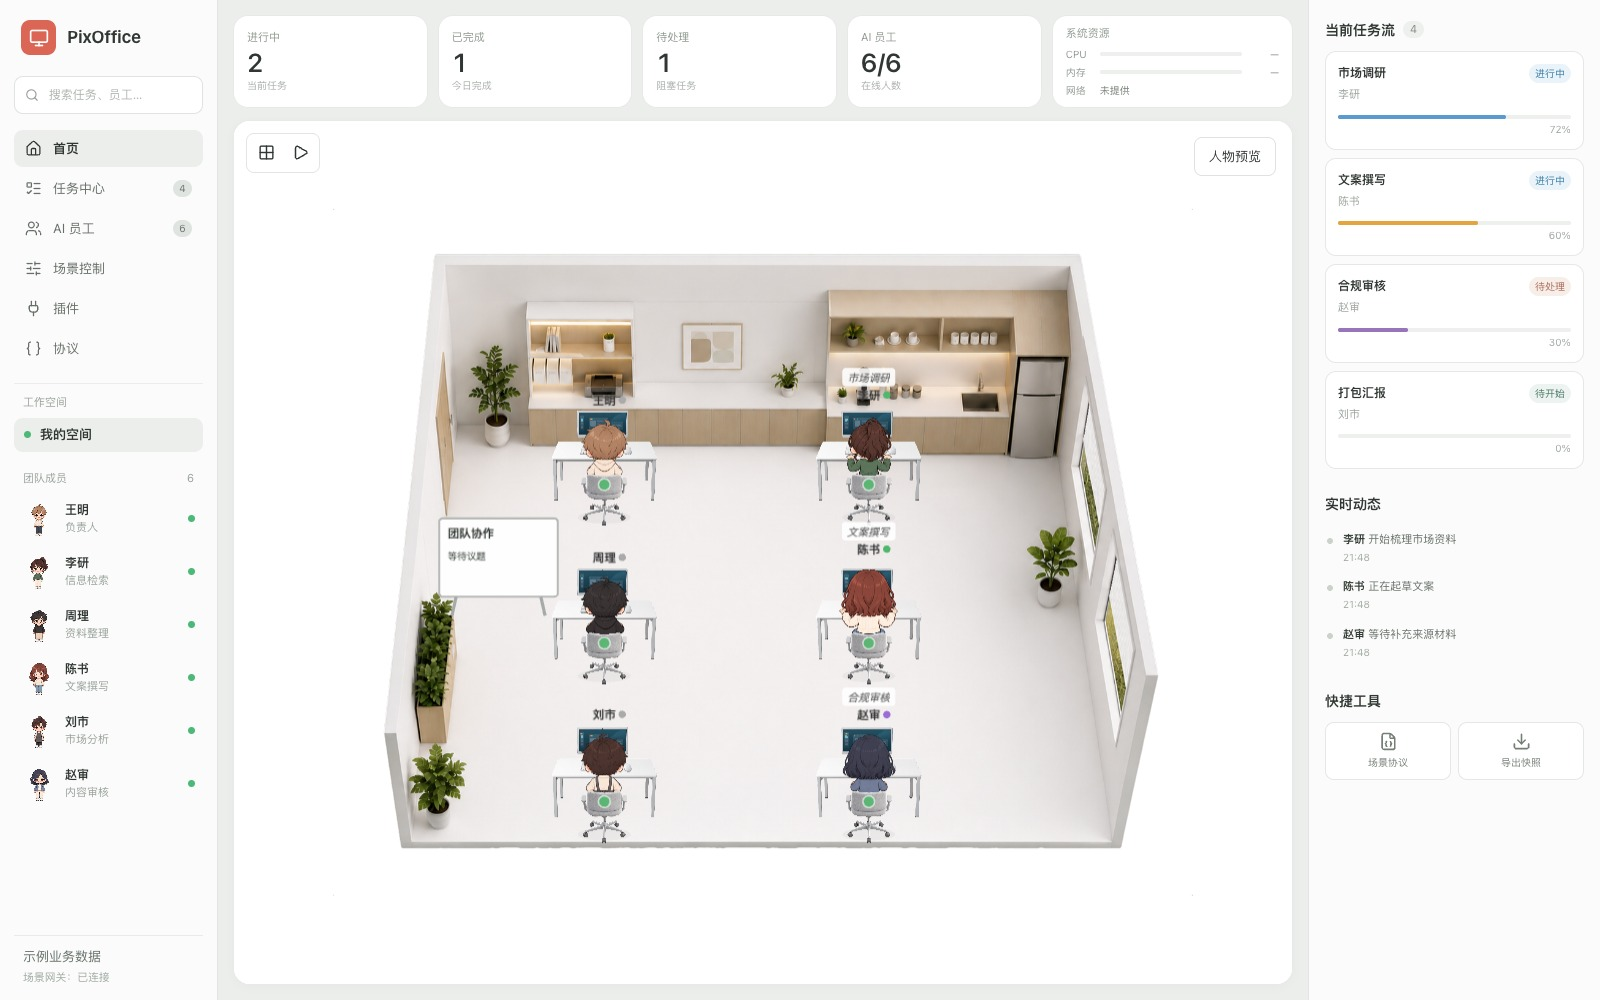
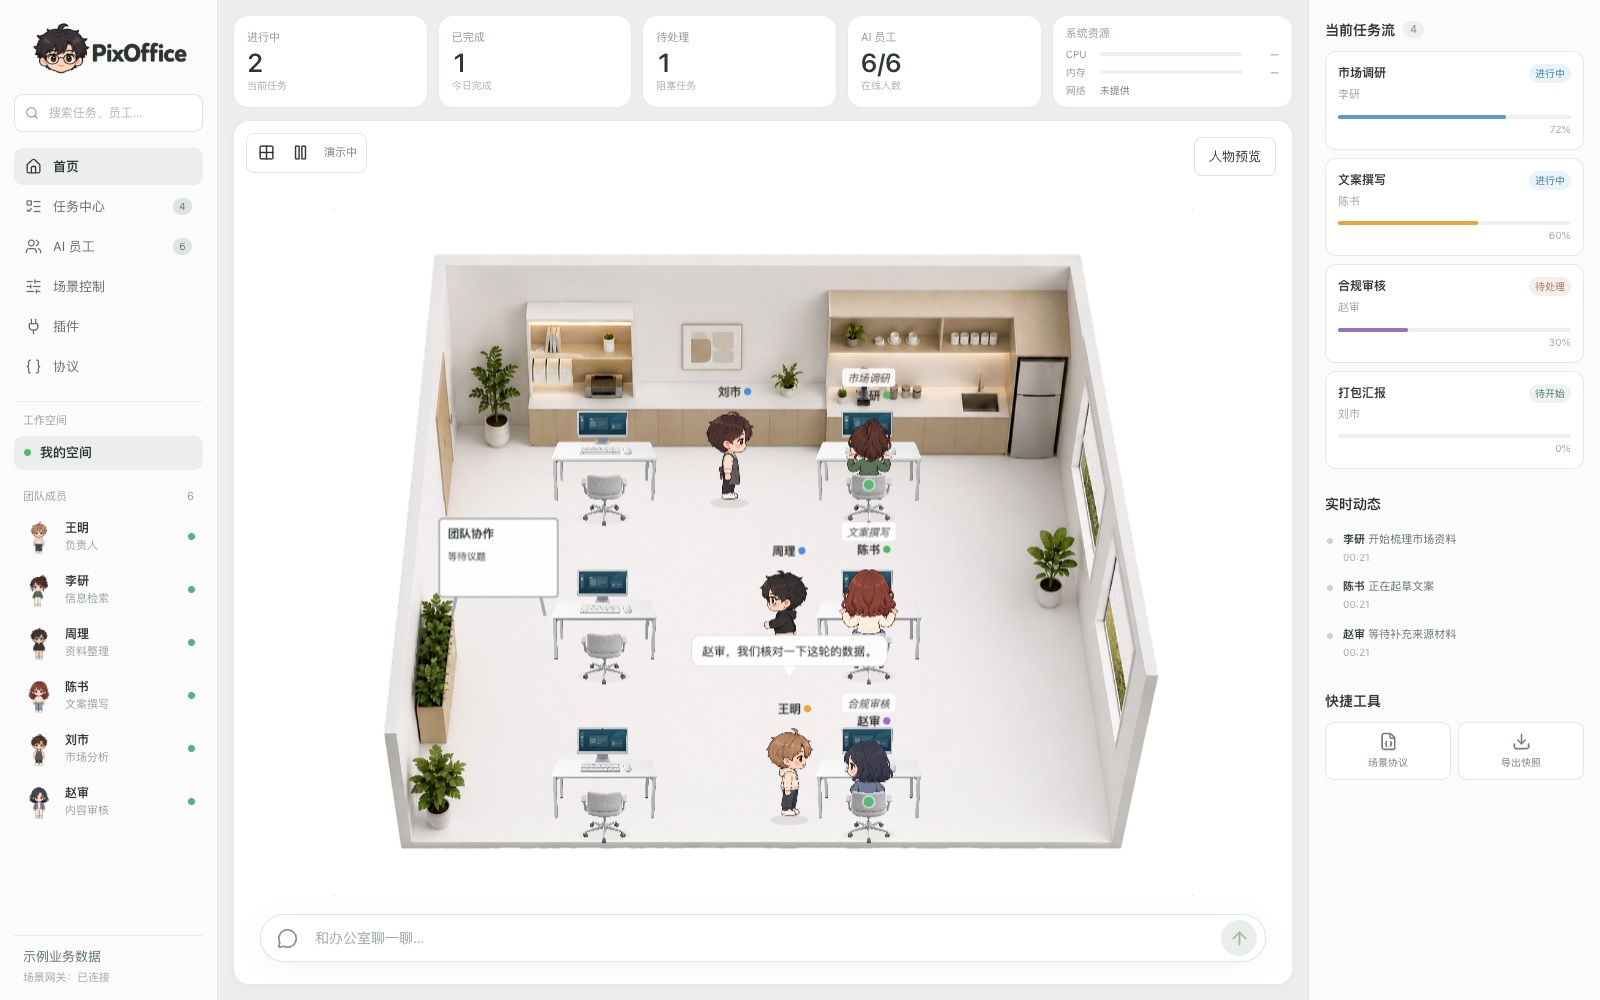
[update] README

diff --git a/README.md b/README.md
@@ -2,7 +2,9 @@
 
 [官网：pixoffice.online](https://pixoffice.online/)
 
-![PixOffice 页面预览](./docs/page-preview.jpeg)
+![PixOffice 多人走动与工位交流演示](./docs/office-demo.gif)
+
+当前版本的场景演示：多人走动、工位拜访与对话。[查看高清静态预览](./docs/page-preview.jpeg)。
 
 PixOffice 是独立的二维办公室前端项目，采用 Vite + React + Pixi。页面采用可替换的业务数据源展示指标、任务与员工；场景内核通过版本化协议和可信内置插件驱动人物、物品与活动。未接入业务服务时使用明确标识的示例数据。
 
